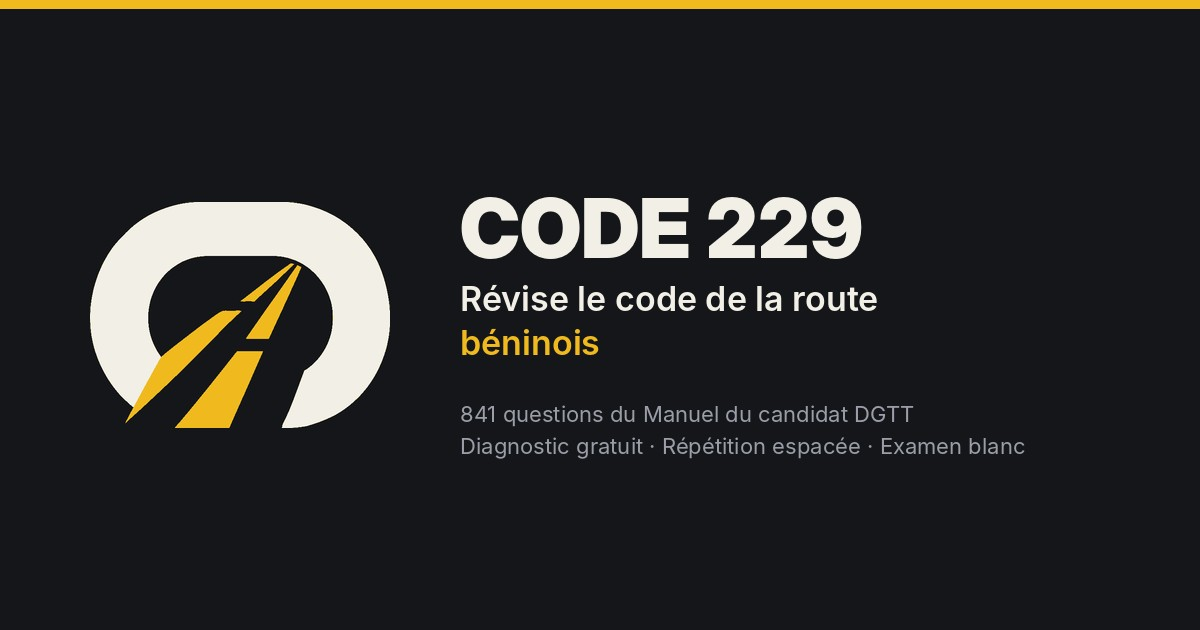
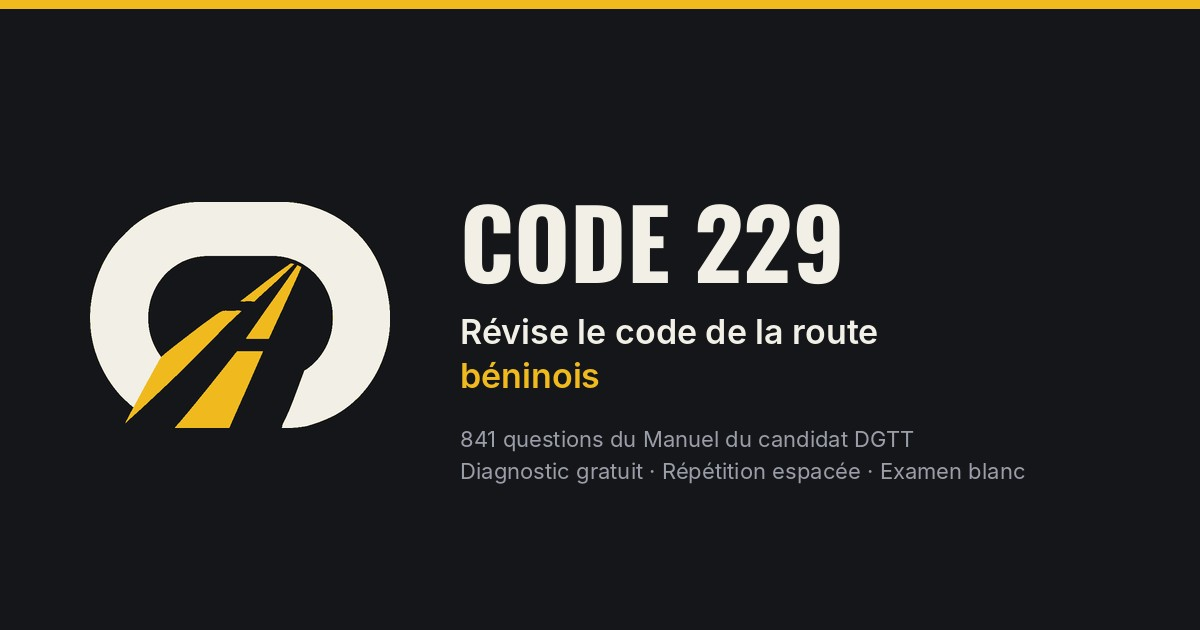
Compose l'aperçu de partage avec Oswald, comme le reste de l'app
Le titre retombait sur Inter Display Black faute d'Oswald installé : l'aperçu
social affichait un « CODE 229 » qui n'était pas celui de l'app. Oswald est une
police variable, d'où le set_variation_by_name plutôt qu'un fichier par graisse,
et le repli reste en place pour une machine qui ne l'a pas.

Empile les lignes à partir de leur boîte réelle plutôt que de coordonnées en
dur : les métriques verticales d'Oswald sont plus hautes que celles d'Inter, et
le titre venait toucher le sous-titre.

Changed region(s): [[0.37, 0.3016, 0.8633, 0.7841]]

diff --git a/tools/og-image.py b/tools/og-image.py
@@ -7,9 +7,9 @@ sur WhatsApp, Facebook ou X.
 Reconstruit l'image à partir de img/brand/logo-source.jpeg, pour qu'un changement
 de logo ne laisse pas l'aperçu social en arrière.
 
-Police : Inter, celle du corps de texte de l'app. Le titre de l'app utilise
-Oswald, qui n'est pas installé localement ; Inter Display Black est le repli le
-plus proche et reste dans la charte.
+Polices : Oswald pour le titre et Inter pour le reste, exactement comme l'app
+(--font-display et --font-body). Si Oswald est absent du système, le titre
+retombe sur Inter Display Black — proche, mais moins étroit.
 """
 
 import os
@@ -27,6 +27,12 @@ YELLOW = (0xF0, 0xBA, 0x1F)
 
 LARGEUR, HAUTEUR = 1200, 630
 INTER = '/usr/share/fonts/opentype/inter/%s.otf'
+# Oswald est une police variable : un seul fichier porte toutes les graisses,
+# d'où le set_variation_by_name plutôt qu'un fichier par graisse.
+OSWALD = [
+    os.path.expanduser('~/.local/share/fonts/Oswald.ttf'),
+    '/usr/share/fonts/truetype/oswald/Oswald[wght].ttf',
+]
 
 
 def police(nom, taille):
@@ -34,6 +40,20 @@ def police(nom, taille):
     if not os.path.exists(chemin):
         sys.exit('Police introuvable : %s\nInstalle Inter (paquet fonts-inter).' % chemin)
     return ImageFont.truetype(chemin, taille)
+
+
+def police_titre(taille):
+    """Oswald si le système l'a, Inter Display Black sinon."""
+    for chemin in OSWALD:
+        if os.path.exists(chemin):
+            f = ImageFont.truetype(chemin, taille)
+            try:
+                f.set_variation_by_name('Bold')
+            except Exception:
+                pass            # FreeType trop ancien pour les polices variables
+            return f
+    print('Oswald introuvable, repli sur Inter Display Black.', file=sys.stderr)
+    return police('InterDisplay-Black', taille)
 
 
 def mark_propre():
@@ -84,14 +104,24 @@ def main():
     img.paste(mark, (marge, (HAUTEUR - mark.size[1]) // 2))
 
     x = marge + cible + 70
-    d.text((x, 178), 'CODE 229', font=police('InterDisplay-Black', 82), fill=CHALK)
-    d.text((x, 278), 'Révise le code de la route', font=police('Inter-SemiBold', 34), fill=CHALK)
-    d.text((x, 322), 'béninois', font=police('Inter-SemiBold', 34), fill=YELLOW)
+    # Oswald et Inter n'ont pas les mêmes métriques verticales : on empile les
+    # lignes à partir de leur boîte réelle plutôt que de coordonnées en dur,
+    # sinon le titre vient toucher le sous-titre au moindre changement de police.
+    titre = police_titre(96)
+    y = 168
+    d.text((x, y), 'CODE 229', font=titre, fill=CHALK)
+    y += titre.getbbox('CODE 229')[3] + 26
 
-    d.text((x, 400), '841 questions du Manuel du candidat DGTT',
-           font=police('Inter-Regular', 22), fill=CHALK_DIM)
-    d.text((x, 432), 'Diagnostic gratuit · Répétition espacée · Examen blanc',
-           font=police('Inter-Regular', 22), fill=CHALK_DIM)
+    sous = police('Inter-SemiBold', 34)
+    d.text((x, y), 'Révise le code de la route', font=sous, fill=CHALK)
+    y += 44
+    d.text((x, y), 'béninois', font=sous, fill=YELLOW)
+
+    y += 70
+    detail = police('Inter-Regular', 22)
+    d.text((x, y), '841 questions du Manuel du candidat DGTT', font=detail, fill=CHALK_DIM)
+    d.text((x, y + 32), 'Diagnostic gratuit · Répétition espacée · Examen blanc',
+           font=detail, fill=CHALK_DIM)
 
     dest = os.path.join(RACINE, 'img', 'og-image.jpg')
     # quality=90 : le fichier reste sous les 150 Ko que les aperçus tolèrent

diff --git a/README.md b/README.md
@@ -119,6 +119,14 @@ python3 tools/og-image.py
 Écrit `img/og-image.jpg` (1200 × 630). À relancer après tout changement de logo,
 sinon l'aperçu social reste sur l'ancienne identité.
 
+Le titre utilise Oswald, comme `--font-display` dans l'app. Si la police manque,
+le script le dit et retombe sur Inter Display Black. Pour l'installer sans
+droits administrateur :
+
+```bash
+mkdir -p ~/.local/share/fonts && curl -sSL -o ~/.local/share/fonts/Oswald.ttf "https://github.com/google/fonts/raw/main/ofl/oswald/Oswald%5Bwght%5D.ttf" && fc-cache -f ~/.local/share/fonts
+```
+
 ## Questions
 
 ### Vérifier l'intégrité des 841 questions
